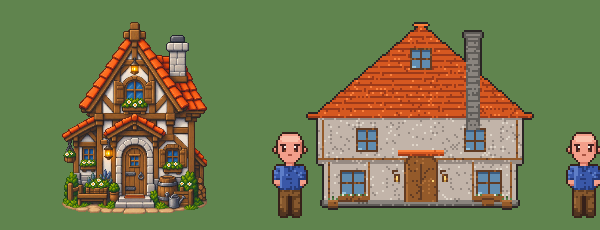
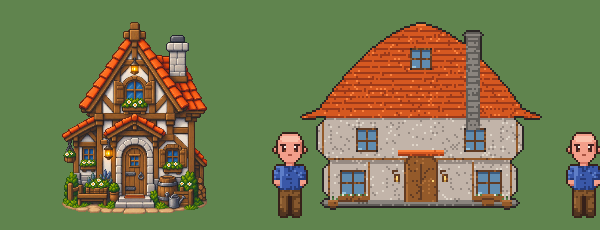
건물이 너무 각졌다 — 지붕을 곡선으로, 귀퉁이를 깎는다
상자 + 삼각형이라 각져 보였다. 세 가지로 부드럽게 만든다.

- 지붕 빗변을 **종 모양 곡선**으로 (지수 0.58). 곧은 빗변은 상자로 보인다.
  처마 끝 네 줄은 바깥으로 들어 올렸다 — 초가처럼 얹힌 느낌이 난다
- 벽 귀퉁이를 크게 깎는다. 한두 칸으로는 티가 안 났다. 위(처마 밑)는 네 칸,
  아래(주춧돌 쪽)는 세 칸 — 위를 더 깎아야 지붕이 얹혀 있는 것처럼 보인다
- 남은 90도 귀퉁이는 soften()이 한 번에 깎는다. 「비어 있는 이웃이 둘인데
  붙어 있고 사이 대각도 비었다」면 바깥으로 튀어나온 귀퉁이다.
  벽·지붕·굴뚝·꽃상자가 같은 규칙으로 둥글어져 결이 고르게 맞는다
- 깎다 보면 한두 칸이 몸에서 떨어져 티끌로 남아서, 12칸 미만 조각은 걷어 낸다

아직 제안만 (ref/proposed_*.png)

diff --git a/game/assets/ref/make_buildings.js b/game/assets/ref/make_buildings.js
@@ -114,6 +114,60 @@ function roughen(g, amount = 0.13) {
 }
 
 
+// 모서리를 깎는다 — 도트에서 「둥글다」는 **귀퉁이 한두 칸을 지우는 것**이다.
+// 90도 각이 그대로 남아 있으면 아무리 색을 잘 써도 상자로 보인다.
+function roundCorners(g, x0, y0, x1, y1, r) {
+  for (let i = 0; i < r; i++) {
+    const n = r - i;                       // 위에서부터 n칸씩 깎는다
+    for (let k = 0; k < n; k++) {
+      g.px(x0 + k, y0 + i, '.');
+      g.px(x1 - k, y0 + i, '.');
+      g.px(x0 + k, y1 - i, '.');
+      g.px(x1 - k, y1 - i, '.');
+    }
+  }
+}
+
+
+// 실루엣의 **바깥 90도 귀퉁이를 한 칸씩 깎는다.**
+//
+// 모서리를 손으로 하나하나 깎는 것보다 이 한 번이 낫다 — 벽·지붕·굴뚝·
+// 꽃상자까지 전부 같은 규칙으로 둥글어져서 결이 고르게 맞는다.
+// 「비어 있는 이웃이 둘인데 그 둘이 붙어 있고 사이 대각도 비었다」면
+// 그 칸은 바깥으로 튀어나온 귀퉁이다.
+function soften(g) {
+  const cut = [];
+  for (let y = 0; y < GH; y++) for (let x = 0; x < GW; x++) {
+    if (g.d[y][x] === '.') continue;
+    const e = (dx, dy) => g.get(x + dx, y + dy) === '.';
+    for (const [ax, ay, bx, by] of [[-1, 0, 0, -1], [1, 0, 0, -1],
+                                    [-1, 0, 0, 1], [1, 0, 0, 1]])
+      if (e(ax, ay) && e(bx, by) && e(ax + bx, ay + by)) { cut.push([x, y]); break; }
+  }
+  for (const [x, y] of cut) g.px(x, y, '.');
+  // 귀퉁이를 깎다 보면 한두 칸이 몸에서 떨어져 티끌로 남는다. 걷어 낸다.
+  const lab = new Int32Array(GW * GH).fill(-1), sizes = [];
+  for (let i = 0; i < GW * GH; i++) {
+    if (lab[i] >= 0 || g.d[(i / GW) | 0][i % GW] === '.') continue;
+    const id = sizes.length, st = [i]; lab[i] = id; let n = 0;
+    while (st.length) {
+      const q = st.pop(); n++;
+      const qx = q % GW, qy = (q / GW) | 0;
+      for (const [dx, dy] of [[1, 0], [-1, 0], [0, 1], [0, -1]]) {
+        const nx = qx + dx, ny = qy + dy;
+        if (nx < 0 || ny < 0 || nx >= GW || ny >= GH) continue;
+        const r = ny * GW + nx;
+        if (lab[r] >= 0 || g.d[ny][nx] === '.') continue;
+        lab[r] = id; st.push(r);
+      }
+    }
+    sizes.push(n);
+  }
+  for (let i = 0; i < GW * GH; i++)
+    if (lab[i] >= 0 && sizes[lab[i]] < 12) g.d[(i / GW) | 0][i % GW] = '.';
+}
+
+
 // ---- 뼈대 ----
 const X0 = 16, X1 = 111;         // 1층 벽 좌우
 const JUT = 3;                   // 2층이 앞으로 나온 턱 (제티)
@@ -126,9 +180,15 @@ const CX = Math.round((X0 + X1) / 2);
 
 
 function roof(g, x0, x1, top, base) {
+  // **곧은 빗변은 상자로 보인다.** 위에서 빨리 벌어지고 아래로 갈수록
+  // 완만해지게(지수 0.72) 부풀리면 종 모양이 되어 초가·동화집 느낌이 난다.
+  // 마지막 세 줄은 처마가 바깥으로 들리는 것 — 이게 있어야 지붕이 「얹힌」다.
   const h = base - top, half = (x1 - x0) / 2, cx = (x0 + x1) / 2;
   for (let i = 0; i <= h; i++) {
-    const w = Math.round(half * (i / h));
+    const t = i / h;
+    let w = half * Math.pow(t, 0.58);   // 지수가 낮을수록 종 모양이 세진다
+    if (i > h - 4) w += (i - (h - 4)) * 1.6;          // 처마 들림 (초가처럼 바깥으로)
+    w = Math.round(w);
     g.rect(Math.round(cx - w), top + i, Math.round(cx + w), top + i, 'r');
   }
   // 기와 골 — 세 줄마다 한 줄. 굵은 격자에서는 이 정도가 「기와」로 읽힌다
@@ -168,6 +228,7 @@ function windowBox(g, x, y, w, h, flowers) {
   g.px(x + 1, y + h - 2, 'e'); g.px(x + 2, y + h - 2, 'e');// 아래 반사
   g.vline(x + Math.floor(w / 2), y + 1, y + h - 2, 'T');   // 창살
   g.hline(x + 1, x + w - 2, y + Math.floor(h / 2), 'T');
+  roundCorners(g, x, y, x + w - 1, y + h - 1, 1);          // 창틀 귀퉁이
   if (flowers) {                                            // 창 밑 꽃상자
     const by = y + h;
     g.rect(x - 1, by, x + w, by + 2, 't');
@@ -285,7 +346,13 @@ function build(spec) {
   planter(g, X1 - 6, GROUND - 1);
   barrel(g, X1 - 16, GROUND);
   if (spec.sign) sign(g, CX);
+  // 벽 귀퉁이 — 아래쪽은 주춧돌이 받치고 있으니 위쪽만 깎는다
+  // 벽 귀퉁이를 크게 깎는다. 한두 칸으로는 티가 안 나 상자로 보인다 —
+  // 위(처마 밑)는 크게, 아래(주춧돌 쪽)는 작게 깎아야 얹혀 있는 것처럼 보인다.
+  roundCorners(g, X0 - JUT, EAVE, X1 + JUT, MID - 1, 4);
+  roundCorners(g, X0, MID, X1, GROUND - 3, 3);
   roughen(g);
+  soften(g);            // 남은 90도 귀퉁이를 전부 깎는다
   g.outline();
   return g;
 }
